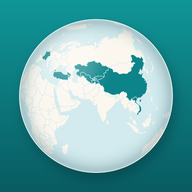
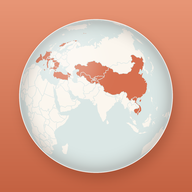
Carte : thème Terre cuite (terracotta clair) par défaut, nouvelle icône
Claude-Session: https://claude.ai/code/session_01Jh81gaFqYF9Em5JszZwjKA

diff --git a/carte/index.html b/carte/index.html
@@ -8,8 +8,8 @@
 <meta name="mobile-web-app-capable" content="yes">
 <meta name="apple-mobile-web-app-status-bar-style" content="default">
 <meta name="apple-mobile-web-app-title" content="Mes pays">
-<meta name="theme-color" content="#fbfbf2" media="(prefers-color-scheme: light)">
-<meta name="theme-color" content="#0d1c24" media="(prefers-color-scheme: dark)">
+<meta name="theme-color" content="#fbf7f1" media="(prefers-color-scheme: light)">
+<meta name="theme-color" content="#1c1714" media="(prefers-color-scheme: dark)">
 <link rel="manifest" href="manifest.webmanifest">
 <link rel="apple-touch-icon" href="icon-180.png">
 <link rel="preconnect" href="https://fonts.googleapis.com">
@@ -19,15 +19,14 @@
 /* VOICE: carnet de cartographe, sobre et précis.
    IDEA: une carte d'état-major où l'on colorie les pays traversés.
    PICTURE: la carte du monde elle-même, plein écran, zoomable.
-   COLOUR and TYPE: mer #bfe3ee, terre #fbfbf2, frontières brunes, pays visités magenta ; Overpass.
+   COLOUR and TYPE: thème Terre cuite (mer vert d’eau, terres crème, pays visités terracotta clair) ; Overpass.
    LAYOUT: compteur en haut comme une légende, carte au centre, onglets en bas. */
-:root{color-scheme:light dark;--onvis:#fff;--line:light-dark(#e6e2da,#26343a);--ink:light-dark(#16232a,#ecf1f3);--muted:light-dark(#5e6b72,#9fb0b8)}
-/* Lagon (par défaut) */
-:root,:root[data-pal=lagon]{--route:light-dark(#e0532f,#ff8a65);--paper:light-dark(#fbfaf7,#0e1b1f);--sea:light-dark(#d3ebee,#11252a);--land:light-dark(#efeae0,#26393e);--border:light-dark(#fff,#0e1b1f);--vis:light-dark(#0c8489,#3fc4c2);--vis2:light-dark(#d5eeee,#123a3c);--head:light-dark(#0b6a6e,#82d6d3)}
-:root[data-pal=terre]{--route:light-dark(#1d6782,#7cc4dd);--paper:light-dark(#fcf9f5,#1b1512);--sea:light-dark(#e2eaed,#15202a);--land:light-dark(#fff,#2d2a29);--border:light-dark(#dcd3c6,#1b1512);--vis:light-dark(#d4562b,#f08a5d);--vis2:light-dark(#fbe2d6,#3e2216);--head:light-dark(#a8401c,#f2a27c)}
-:root[data-pal=atlas]{--route:light-dark(#284766,#a9c4dd);--paper:light-dark(#f6f0e3,#1b1813);--sea:light-dark(#c5d9d2,#1c2a28);--land:light-dark(#f0e6cd,#3a3428);--border:light-dark(#c2b18c,#1b1813);--vis:light-dark(#a3392a,#e0745f);--vis2:light-dark(#f1d8cd,#3f1f19);--head:light-dark(#7a5626,#dcb97c);--line:light-dark(#e2d8c3,#2f2a22)}
-:root[data-pal=nuit]{--route:#ffffff;color-scheme:dark;--paper:#0f1726;--sea:#0a111e;--land:#1e2a3f;--border:#0a111e;--vis:#f2b84b;--vis2:#3a2e14;--head:#f2b84b;--ink:#eef2f8;--muted:#9aa7bd;--line:#243149;--onvis:#1a1405}
-:root[data-pal=magenta]{--route:light-dark(#13242e,#e8f1f4);--paper:light-dark(#fbfbf2,#0f2029);--sea:light-dark(#bfe3ee,#14303c);--land:light-dark(#fbfbf2,#2a4552);--border:light-dark(#c39a74,#0d1c24);--vis:light-dark(#d6127e,#ff4fa3);--vis2:light-dark(#fbe1ef,#3d1a2e);--head:light-dark(#a8551b,#e0a070)}
+:root{color-scheme:light dark}
+/* Terre cuite (par défaut), clair et sombre */
+:root,:root[data-pal=terracotta]{--paper:light-dark(#fbf7f1,#1c1714);--sea:light-dark(#dbe7e5,#121a1b);--land:light-dark(#f1e8da,#2f2722);--border:light-dark(#fbf7f1,#1c1714);--ink:light-dark(#2b2420,#f3ece6);--muted:light-dark(#7a6c62,#b3a59a);--line:light-dark(#ebe2d5,#332b25);--vis:light-dark(#dc7f5e,#e8957a);--vis2:light-dark(#f8e3da,#47271c);--head:light-dark(#b0583c,#e8a387);--route:light-dark(#2f4858,#a9c6c9);--onvis:light-dark(#3b1a0e,#2a120a)}
+:root[data-pal=blanc]{color-scheme:light;--paper:#fff;--sea:#edf2f6;--land:#dfe5eb;--border:#fff;--ink:#13263a;--muted:#6b7c8c;--line:#e7ebef;--vis:#e23a5d;--vis2:#fde4ea;--head:#13263a;--route:#13263a;--onvis:#fff}
+:root[data-pal=ocean]{color-scheme:light;--paper:#fbfaf6;--sea:#1d4560;--land:#ece5d6;--border:#1d4560;--ink:#10293a;--muted:#5f6f7a;--line:#e6e1d6;--vis:#f08a3c;--vis2:#fde8d6;--head:#1d4560;--route:#fff;--onvis:#2a1300}
+:root[data-pal=nuit]{color-scheme:dark;--paper:#111824;--sea:#0b1119;--land:#243247;--border:#0b1119;--ink:#eef2f7;--muted:#97a6b8;--line:#233044;--vis:#4fd1b5;--vis2:#123a33;--head:#4fd1b5;--route:#f6c76a;--onvis:#0b1a17}
 *{box-sizing:border-box;min-width:0}
 html,body{height:100%}
 body{margin:0;background:var(--paper);color:var(--ink);font:16px/1.5 Overpass,system-ui,-apple-system,sans-serif;overflow:hidden;-webkit-tap-highlight-color:transparent}
@@ -399,9 +398,10 @@ function setStatus(id, s){
   if(sel === id) openSheet(id);
 }
 
-const PALS = [["lagon", "Lagon", ["#d3ebee", "#efeae0", "#0c8489"]], ["terre", "Terre cuite", ["#e2eaed", "#ffffff", "#d4562b"]], ["atlas", "Atlas ancien", ["#c5d9d2", "#f0e6cd", "#a3392a"]], ["nuit", "Nuit dorée", ["#0a111e", "#1e2a3f", "#f2b84b"]], ["magenta", "Magenta", ["#bfe3ee", "#fbfbf2", "#d6127e"]]];
-let pal = "lagon";
-try{ pal = localStorage.getItem("carte-palette") || "lagon"; }catch(e){}
+const PALS = [["terracotta", "Terre cuite", ["#dbe7e5", "#f1e8da", "#dc7f5e"]], ["blanc", "Carnet blanc", ["#edf2f6", "#dfe5eb", "#e23a5d"]], ["ocean", "Océan et sable", ["#1d4560", "#ece5d6", "#f08a3c"]], ["nuit", "Nuit polaire", ["#0b1119", "#243247", "#4fd1b5"]]];
+let pal = "terracotta";
+try{ pal = localStorage.getItem("carte-palette") || "terracotta"; }catch(e){}
+if(!PALS.some(x => x[0] === pal)) pal = "terracotta";
 function setPal(id){ pal = id; document.documentElement.dataset.pal = id; try{ localStorage.setItem("carte-palette", id); }catch(e){} }
 setPal(pal);
 /* ---------- carte ---------- */

diff --git a/carte/sw.js b/carte/sw.js
@@ -1,7 +1,7 @@
 /* Fonctionnement hors ligne de la carte.
    Page et listes de pays : réseau d'abord (pour recevoir les mises à jour), cache si hors ligne.
    Fond de carte, icônes, polices : cache d'abord. */
-const CACHE = "carte-v7";
+const CACHE = "carte-v8";
 const SHELL = ["./", "index.html", "monde.json", "mes-pays.json", "manifest.webmanifest", "icon-180.png", "icon-192.png", "icon-512.png", "globe-nuit.jpg"];
 self.addEventListener("install", e => {
   e.waitUntil(caches.open(CACHE).then(c => c.addAll(SHELL)).then(() => self.skipWaiting()));
